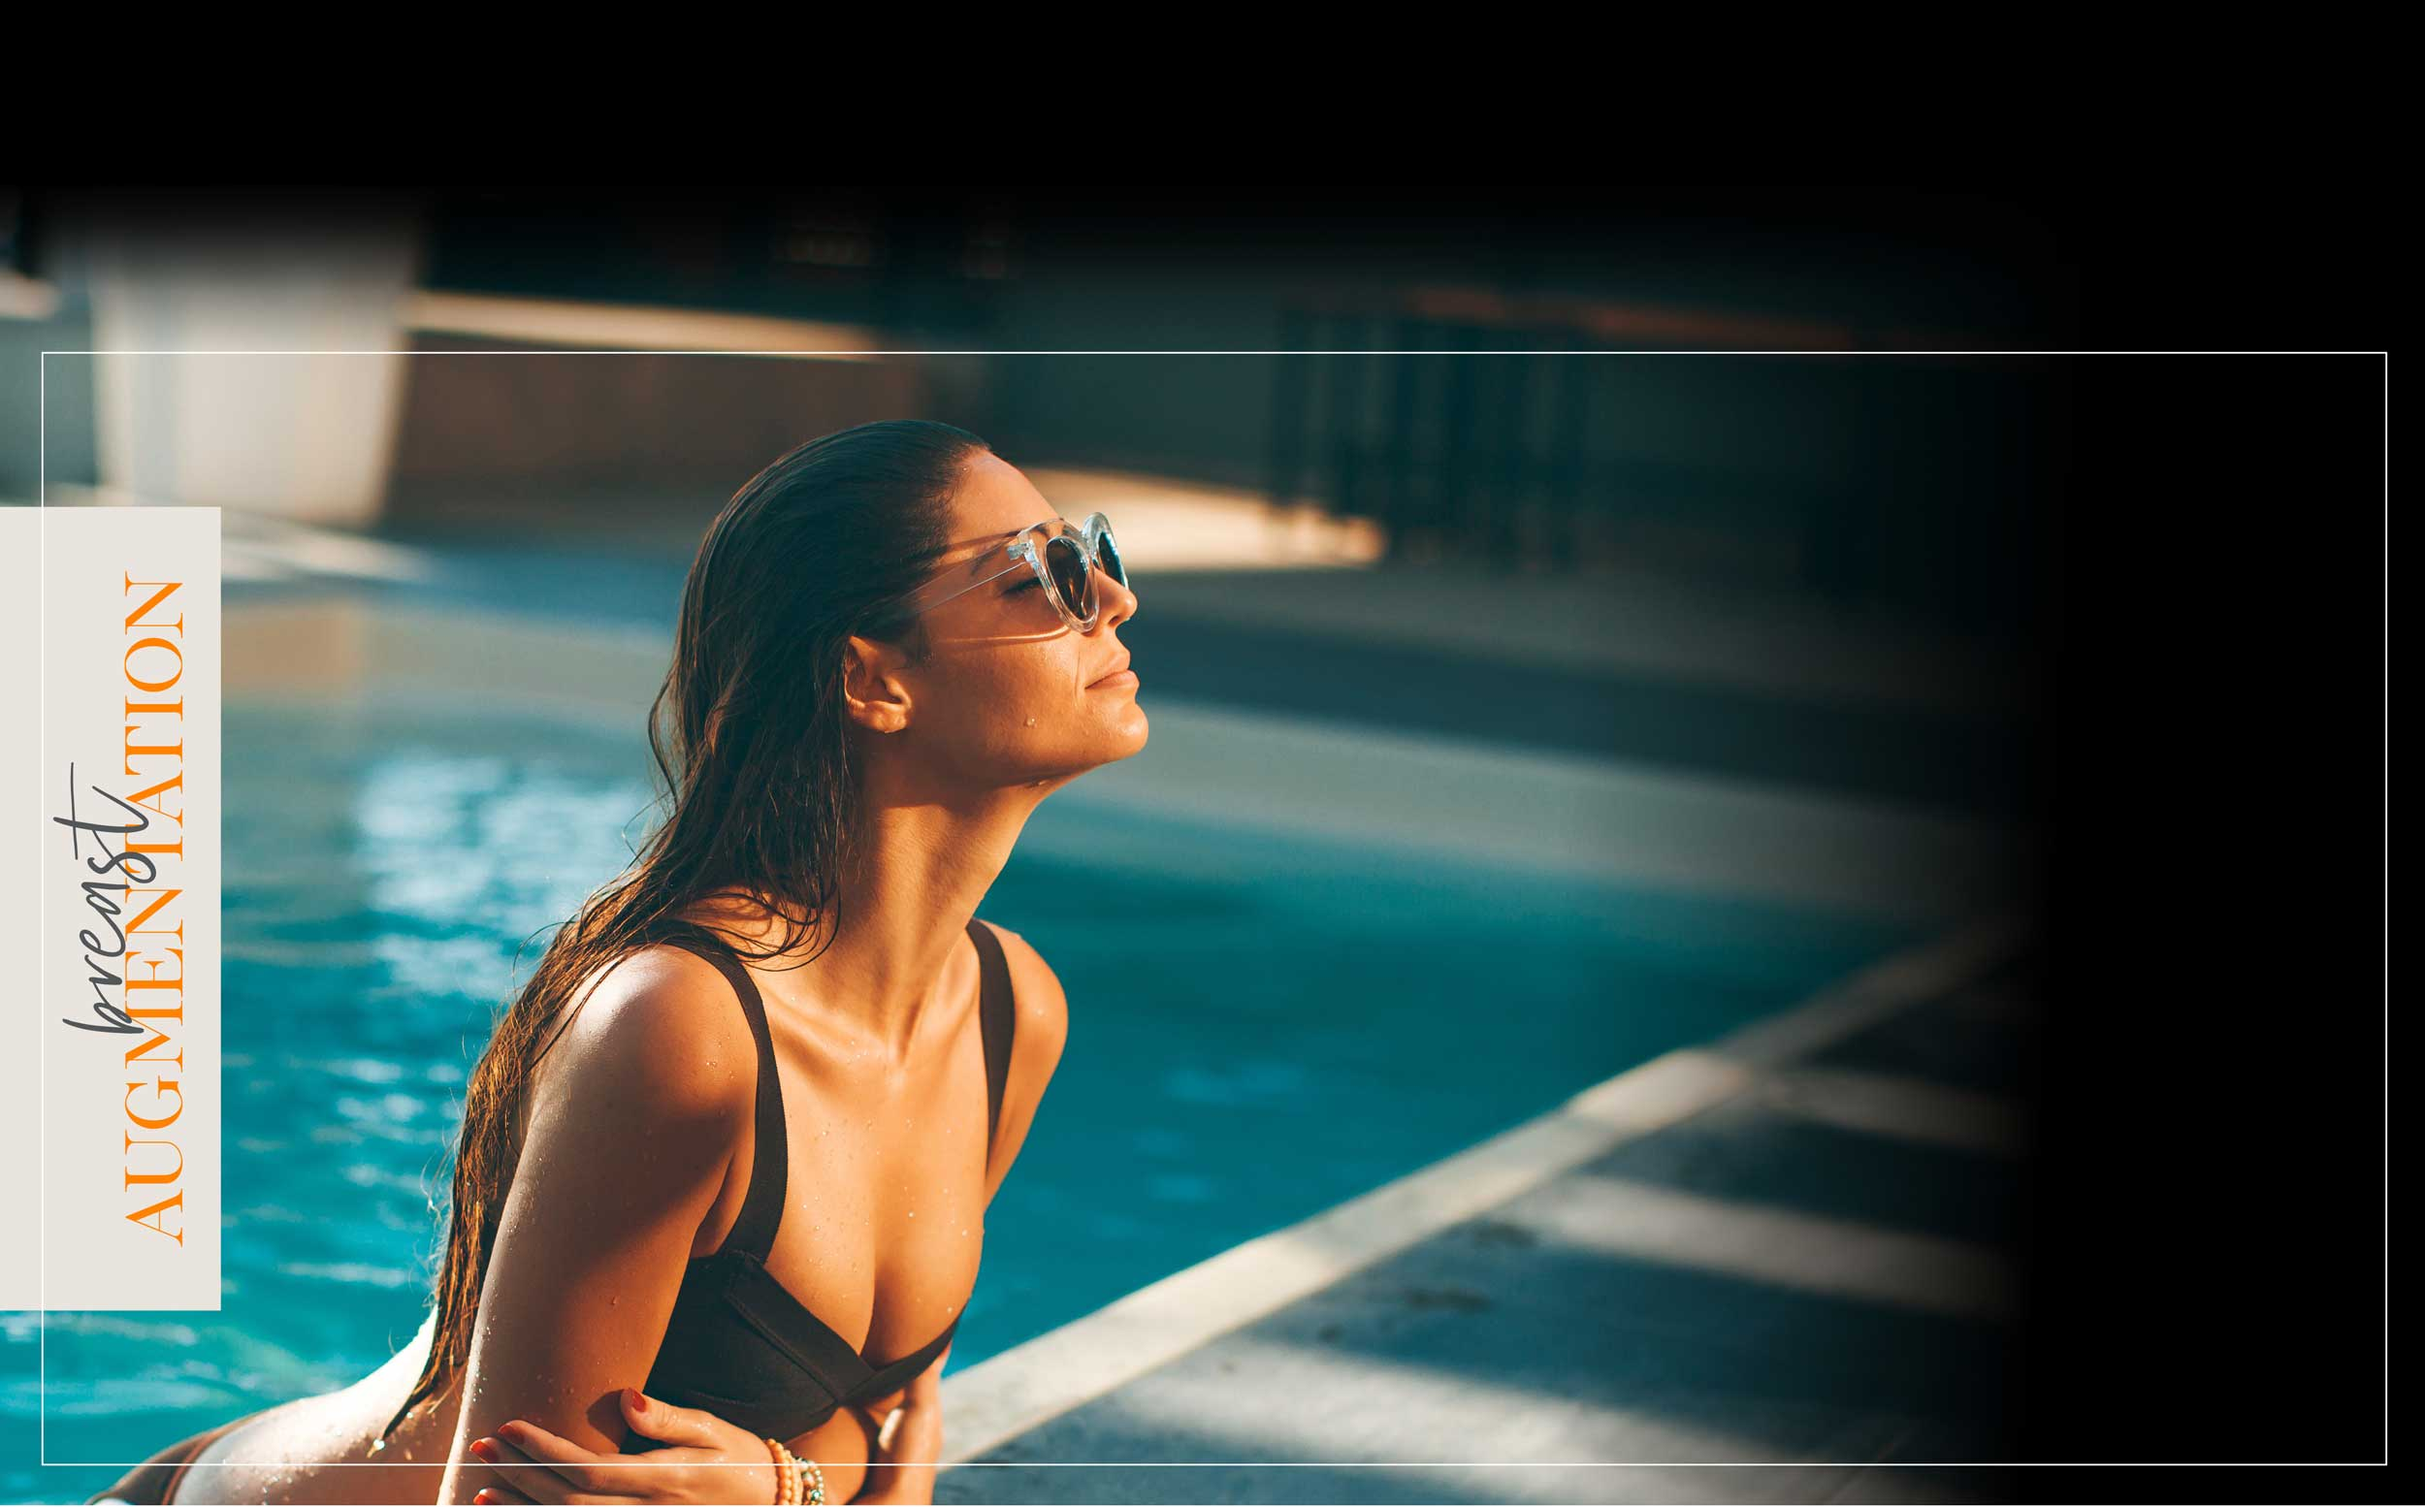
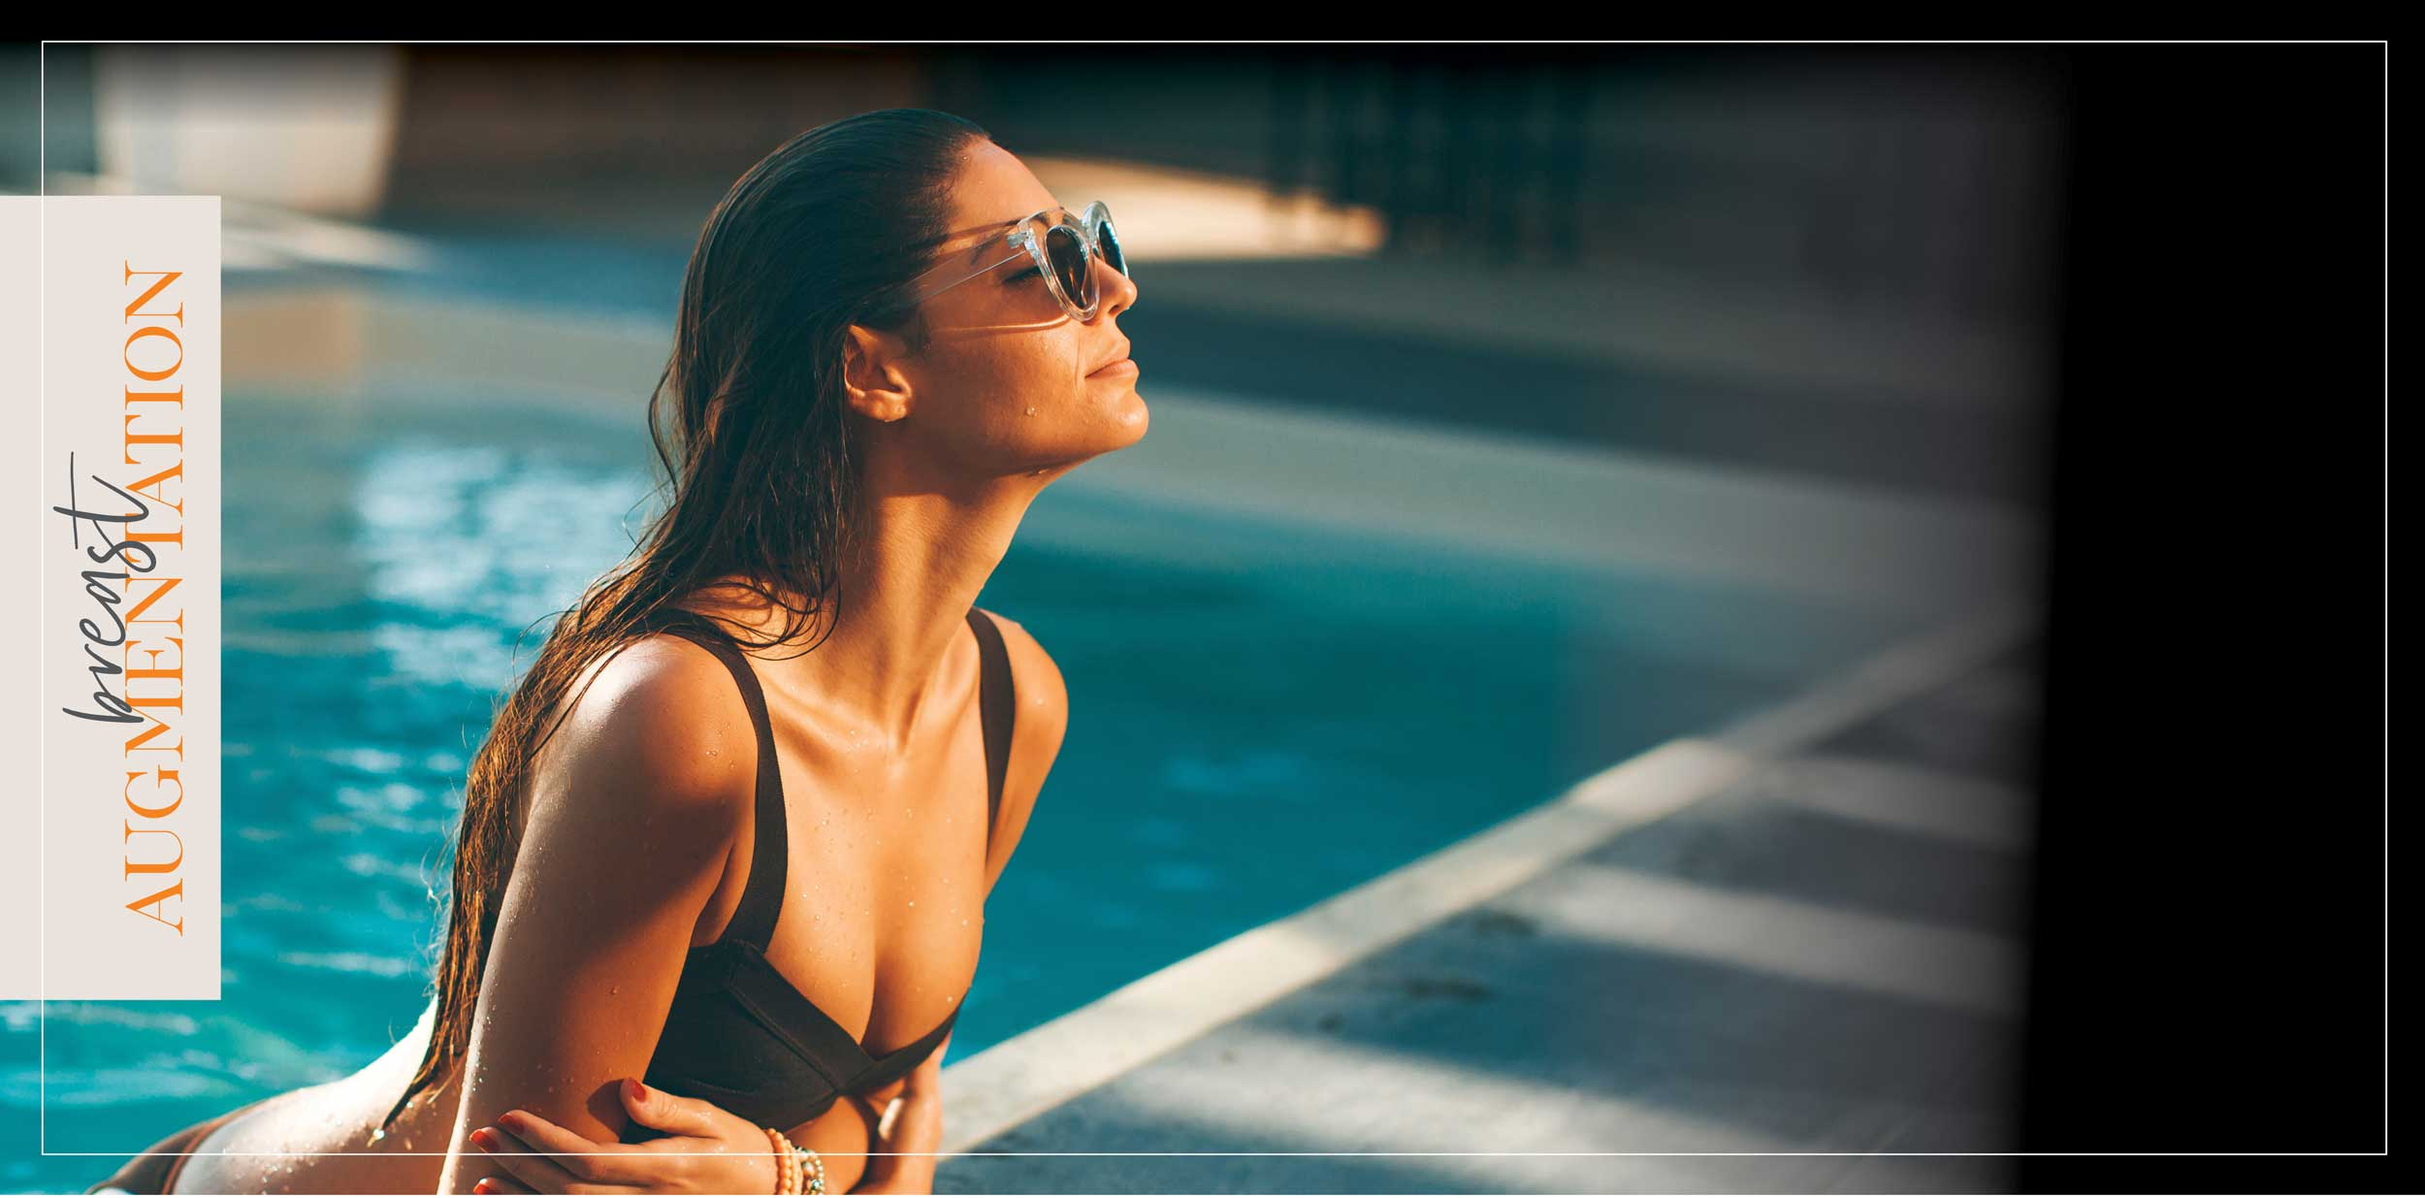
pages

diff --git a/web/app/themes/sientra-theme/resources/assets/styles/layouts/_pages.scss b/web/app/themes/sientra-theme/resources/assets/styles/layouts/_pages.scss
@@ -102,12 +102,14 @@
     @media (min-width: 768px) { 
 //       background-image: url(../images/aug_home_hero-1200.jpg);
       background-image: url(../images/aug_home_hero-2500.jpg);
-      height: 62vw;
+      height: 49vw;
       padding-bottom: 7vw;
     }
+/*
     @media (min-width: 1999px) { 
       background-image: url(../images/aug_home_hero-2500.jpg);
     }
+*/
     div {
       .image-h {
         padding-top: 30%;

diff --git a/web/app/themes/sientra-theme/resources/assets/styles/layouts/_header.scss b/web/app/themes/sientra-theme/resources/assets/styles/layouts/_header.scss
@@ -78,14 +78,16 @@
   .breast-augmentation & {
     background: #000;
     color: #fff;
+/*
     @media (min-width: 768px) { 
       position: absolute;
       top: 0;
       left: 0;
       right: 0;    
     }
+*/
     @media (min-width: 992px) { 
-      background: transparent;
+      background: #000;
     }
     .brand {
       &.brand-light {
